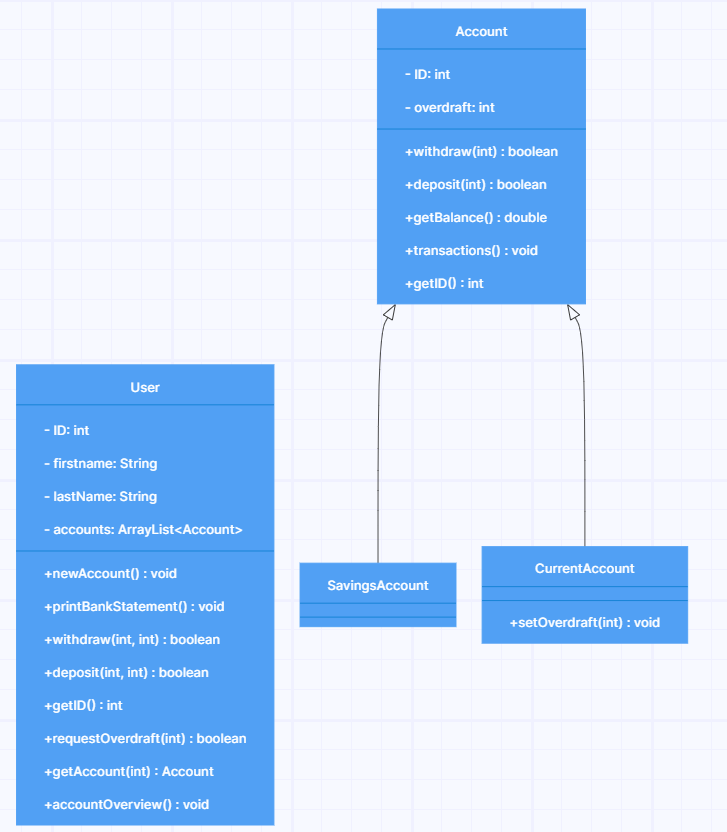
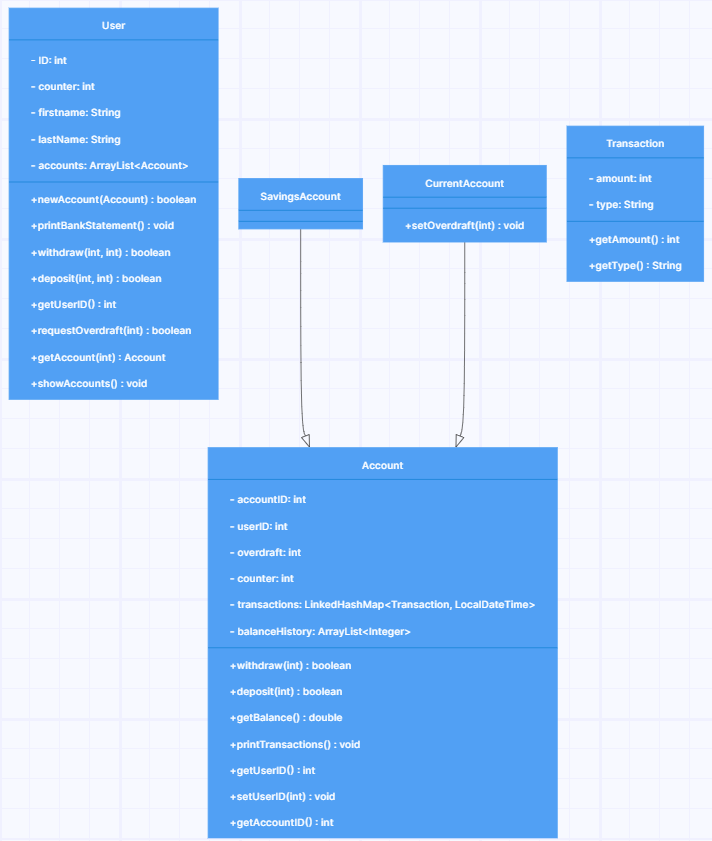
Extension finito!!domain model and class diagram updated

diff --git a/src/main/java/com/booleanuk/core/Account.java b/src/main/java/com/booleanuk/core/Account.java
@@ -11,16 +11,15 @@ abstract public class Account {
     private int userID;
     private final int accountID;
     protected int overdraft;
-    private LinkedHashMap<Transaction, LocalDateTime> history;
-    private int balance = 0;
-
-    private ArrayList<Integer> balanceHistory = new ArrayList<>();
+    private LinkedHashMap<Transaction, LocalDateTime> transactions;
+    private ArrayList<Integer> balanceHistory;
 
     public Account(){
         accountID = counter;
         counter++;
         overdraft = 0;
-        history = new LinkedHashMap<>();
+        transactions = new LinkedHashMap<>();
+        balanceHistory = new ArrayList<>();
     }
     public int getUserID(){
         return userID;
@@ -35,21 +34,19 @@ abstract public class Account {
     }
 
     public double getBalance(){
-        /*
         int balance = 0;
-        for (Transaction transaction : history.values()){
+        for (Transaction transaction : transactions.keySet()){
             balance += transaction.getAmount();
         }
-        */
+
         return balance;
     }
 
     public boolean withdraw(int fund){
         if (Math.abs(fund) == fund){
             if (getBalance() >= fund + overdraft){
-                history.put(new Transaction(-fund, "Withdrawal"), LocalDateTime.now());
-                balance -= fund;
-                balanceHistory.add(balance);
+                transactions.put(new Transaction(-fund, "Withdrawal"), LocalDateTime.now());
+                balanceHistory.add((int) getBalance());
                 return true;
             }
         }
@@ -60,9 +57,9 @@ abstract public class Account {
 
     public boolean deposit(int fund){
         if (Math.abs(fund) == fund){
-            history.put(new Transaction(fund, "Deposit"), LocalDateTime.now());
-            balance += fund;
-            balanceHistory.add(balance);
+            transactions.put(new Transaction(fund, "Deposit"), LocalDateTime.now());
+            //balance += fund;
+            balanceHistory.add((int) getBalance());
             return true;
         }
         System.out.println("Insufficient funds. Deposit failed.");
@@ -76,7 +73,7 @@ abstract public class Account {
         DateTimeFormatter myFormat = DateTimeFormatter.ofPattern("dd-MM-yyyy HH:mm:ss");
 
         int index = 0;
-        for (Map.Entry<Transaction, LocalDateTime> set : history.entrySet()){
+        for (Map.Entry<Transaction, LocalDateTime> set : transactions.entrySet()){
             String formattedDate = set.getValue().format(myFormat);
             if (set.getKey().getType().equals("Deposit")){
                 System.out.printf("|%-22s| %-15s| %-15s| %-15s| %n", formattedDate, set.getKey().getAmount(), "", balanceHistory.get(index));
@@ -86,17 +83,5 @@ abstract public class Account {
             index++;
         }
         System.out.println("\n");
-    }
-
-    private int previousBalanceHelper(Transaction transaction){
-        int balance = 0;
-        for (Map.Entry<Transaction, LocalDateTime> set : history.entrySet()){
-            balance += set.getKey().getAmount();
-            if (set.getKey() == transaction){
-                return balance;
-            }
-        }
-
-        return balance;
     }
 }

diff --git a/domain-model.md b/domain-model.md
@@ -32,31 +32,44 @@ I want to be able to request an overdraft on my account.
 
 Account (Abstract)
 
-| Member Variables | Methods               | Scenario                        | Result/Output                              | User Story |
-|------------------|-----------------------|---------------------------------|--------------------------------------------|------------|
-| int ID           | boolean withdraw(int) | To take out money from account. | True if withdraw successful, false if not. | S4         |
-| int overdraft    | boolean deposit(int)  | To put money in account.        | True if deposit successful, false if not.  | S4         |
-|                  | double getBalance()   | To know money in account.       | The balance of the account.                | S5         |
-|                  | void transactions()   | To keep record of finances.     | Displays history of transactions.          | S3         |
-|                  | int getID()           |                                 |                                            |            |
+| Member Variables                                       | Methods                  | Scenario                        | Result/Output                                                              | User Story |
+|--------------------------------------------------------|--------------------------|---------------------------------|----------------------------------------------------------------------------|------------|
+| int accountID                                          | boolean withdraw(int)    | To take out money from account. | True if enough money in account and fund is positive number, false if not. | S4         |
+| int overdraft                                          | boolean deposit(int)     | To put money in account.        | True if fund is positive number, false if not.                             | S4         |
+| static int counter                                     | double getBalance()      | To know money in account.       | The balance of the account.                                                | S5         |
+| int userID                                             | void printTransactions() | To keep record of finances.     | Displays history of transactions.                                          | S3         |
+| int overdraft                                          | int getAccountID()       |                                 |                                                                            |            |
+| LinkedHashMap<Transaction, LocalDateTime> transactions | void setUserID()         |                                 |                                                                            |            |
+| ArrayList<Integer> balanceHistory                      | int getUserID()          |                                 |                                                                            |            |
+
 
 SavingsAccount extends Account
 
 
 CurrentAccount extends Account
 
-| Member Variables | Methods           | Scenario | Result/Output | User Story |
-|------------------|-------------------|----------|---------------|------------|
-|                  | setOverdraft(int) |          |               | S6         |
+| Methods                   | Output                                           | User Story |
+|---------------------------|--------------------------------------------------|------------|
+| boolean setOverdraft(int) | true if amount is less than 5000, false if else. | S6         |
+
 
 User 
 
-| Member Variables            | Methods                       | Scenario                                   | Result/Output                             | User Stories |
-|-----------------------------|-------------------------------|--------------------------------------------|-------------------------------------------|--------------|
-| int ID                      | void newAccount()             | To make a new account.                     |                                           | S1, S2       |
-| String firstName            | void printBankStatement()     | To keep record of finances.                |                                           | S3           |
-| String lastName             | boolean withdraw(int, int)    | To withdraw money from account of choice.  |                                           | S4           |
-| ArrayList<Account> accounts | boolean deposit(int, int)     | To deposit money from account of choice.   |                                           | S4           |
-|                             | void showAccounts()           | To see all accounts and following balance. |                                           |              |
-|                             | Account getAccount(int)       |                                            |                                           |              |
-|                             | boolean requestOverdraft(int) | To have an emergency fund.                 | True if overdraft approved, false if not. | S6           |
+| Member Variables            | Methods                       | Scenario                                   | Result/Output                                          | User Stories |
+|-----------------------------|-------------------------------|--------------------------------------------|--------------------------------------------------------|--------------|
+| int ID                      | boolean newAccount(Account)   | To make a new account.                     | True if account does not have other user, false if not | S1, S2       |
+| String firstName            | void printBankStatement()     | To keep record of finances.                |                                                        | S3           |
+| String lastName             | boolean withdraw(int, int)    | To withdraw money from account of choice.  | True if withdrawal successful, false if not.           | S4           |
+| ArrayList<Account> accounts | boolean deposit(int, int)     | To deposit money from account of choice.   | True if deposit successful, false if not.              | S4           |
+| static int counter          | void showAccounts()           | To see all accounts and following balance. |                                                        |              |
+|                             | Account getAccount(int)       |                                            |                                                        |              |
+|                             | boolean requestOverdraft(int) | To have an emergency fund.                 | True if overdraft approved, false if not.              | S6           |
+|                             | getUserID()                   |                                            |                                                        |              |
+
+
+Transaction
+
+| Member Variables | Methods          |
+|------------------|------------------|
+| int amount       | getAmount() int  |
+| String type      | getType() String |
